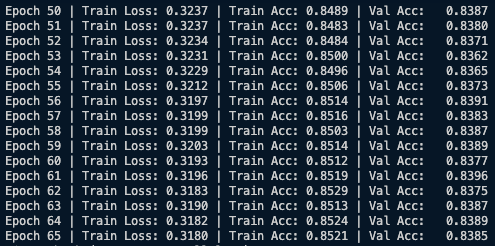
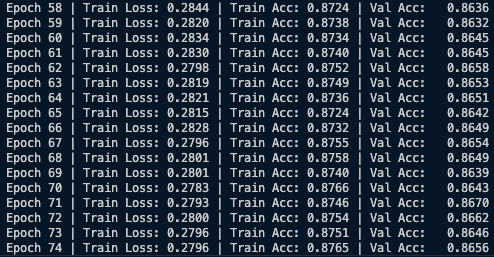
Update model to 5-layer config
Added 2 layers, dropout to prevent overfitting and reduced learning rate

New stats:
Train Acc: 87,64%
Val Acc:     86,62%

diff --git a/GIN_full_aut.py b/GIN_full_aut.py
@@ -22,9 +22,10 @@ val_loader = DataLoader(val_dataset, batch_size=128)
 
 
 class GIN(nn.Module):
-    def __init__(self, hidden_dim=128, num_layers=3):
+    def __init__(self, hidden_dim=128, num_layers=5, dropout=0.2):
         super().__init__()
 
+        self.dropout = dropout
         self.convs = nn.ModuleList()
 
         self.convs.append(
@@ -52,13 +53,14 @@ class GIN(nn.Module):
         x, edge_index, batch = data.x, data.edge_index, data.batch
         for conv in self.convs:
             x = F.relu(conv(x, edge_index))
+            x = F.dropout(x, self.dropout)
         x = global_add_pool(x, batch)
         return self.classifier(x).view(-1)
 
 
 device = torch.device("cuda" if torch.cuda.is_available() else "cpu")
 model = GIN().to(device)
-optimizer = torch.optim.Adam(model.parameters(), lr=1e-3, weight_decay=1e-5)
+optimizer = torch.optim.Adam(model.parameters(), lr=5e-4, weight_decay=1e-5)
 criterion = nn.BCEWithLogitsLoss()
 scheduler = torch.optim.lr_scheduler.ReduceLROnPlateau(
     optimizer, mode='max', factor=0.5, patience=3

diff --git a/dataset_gen.py b/dataset_gen.py
@@ -61,7 +61,7 @@ def generate_partial_automorphism_graphs(graphs: list[Graph]) -> list:
                 continue
             seen.add(key)
             positives.append(mapping)
-            dataset.append(_make_data(edge_list, n, mapping, 1))
+            dataset.append(_make_data(edge_list, n, mapping, label=1))
 
         # negative examples
         for mapping in positives:
